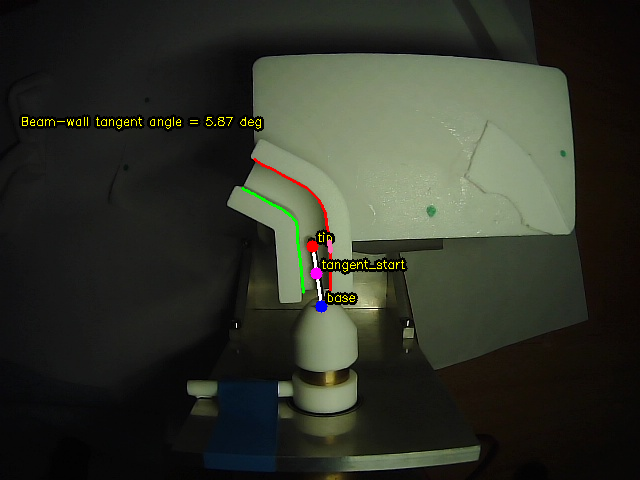
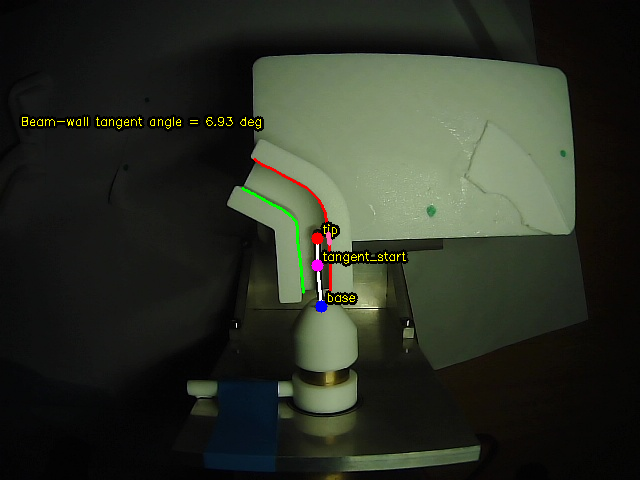
18 mm away

Changed region(s): [[0.4688, 0.4375, 0.6562, 0.5938]]

diff --git a/proper_research/control/lab_ready_mpc.py b/proper_research/control/lab_ready_mpc.py
@@ -774,7 +774,7 @@ class mpc_controller_tipxy_LTI:
 
         self.enable_mag_center_standoff = True
         self.w_mag_center_standoff = 12
-        self.mag_center_standoff_m = 0.25
+        self.mag_center_standoff_m = 0.18
         self.dL_back_max = 0.002      # or 0.001 if small pullback allowed
         self.dL_fwd_max  = np.inf   # or some finite cap (per-step dL rate)
         from collections import deque
@@ -1513,7 +1513,7 @@ class mpc_controller_tipxy_LTI:
                 hard_theta_mask = np.zeros(Np, dtype=bool)
 
             enable_hard_epm_tip_clearance = bool(getattr(self, "enable_hard_epm_tip_clearance", True))
-            epm_tip_clearance_min_m = float(getattr(self, "epm_tip_clearance_min_m", 0.025))
+            epm_tip_clearance_min_m = float(getattr(self, "epm_tip_clearance_min_m", 0.014))
 
             if enable_hard_epm_tip_clearance:
                 if "Pm" not in locals() or "r_nom" not in locals():
@@ -2645,7 +2645,7 @@ def make_initial_poses_single_use(hw) -> tuple[np.ndarray, np.ndarray, float, fl
     ], float)
 
     base_point = np.array([
-        pivot_point[0] - (L0 + 0.25),
+        pivot_point[0] - (L0 + 0.18),
         pivot_point[1],
         -0.1,
         np.pi, 0.001, 0.001
@@ -2819,7 +2819,7 @@ def run_control(
     hw=None,
     save_plots=True,
     plot_dir="mpc_debug_plots",
-    csv_log_path="control_run_log_test_opti_mid_low_25_mag_opti.csv",
+    csv_log_path="control_run_log_test_opti_mid_low_18_mag_opti.csv",
 ):
     history = []
     csv_rows = []
@@ -2837,7 +2837,7 @@ def run_control(
             blue_roi_path="blue_roi_box.json",
             pivot_hint=pivot_hint,
             show=show,
-            save_overlay_path=f"debug_outputs_opti_mid_low_25_mag_opti/reconstruction_overlay_step_{k:04d}.png",
+            save_overlay_path=f"debug_outputs_opti_mid_low_18_mag_opti/reconstruction_overlay_step_{k:04d}.png",
         )
 
         vision_result["lumen_C_robot_m"] = transform_local_points_to_robot(
@@ -3293,7 +3293,7 @@ if __name__ == "__main__":
             send_commands=True,
             hw=hw,
             save_plots=True,
-            plot_dir="mpc_debug_plots_opti_mid_low_25_mag_opti",
+            plot_dir="mpc_debug_plots_opti_mid_low_18_mag_opti",
         )
     finally:
         hw.shutdown()
